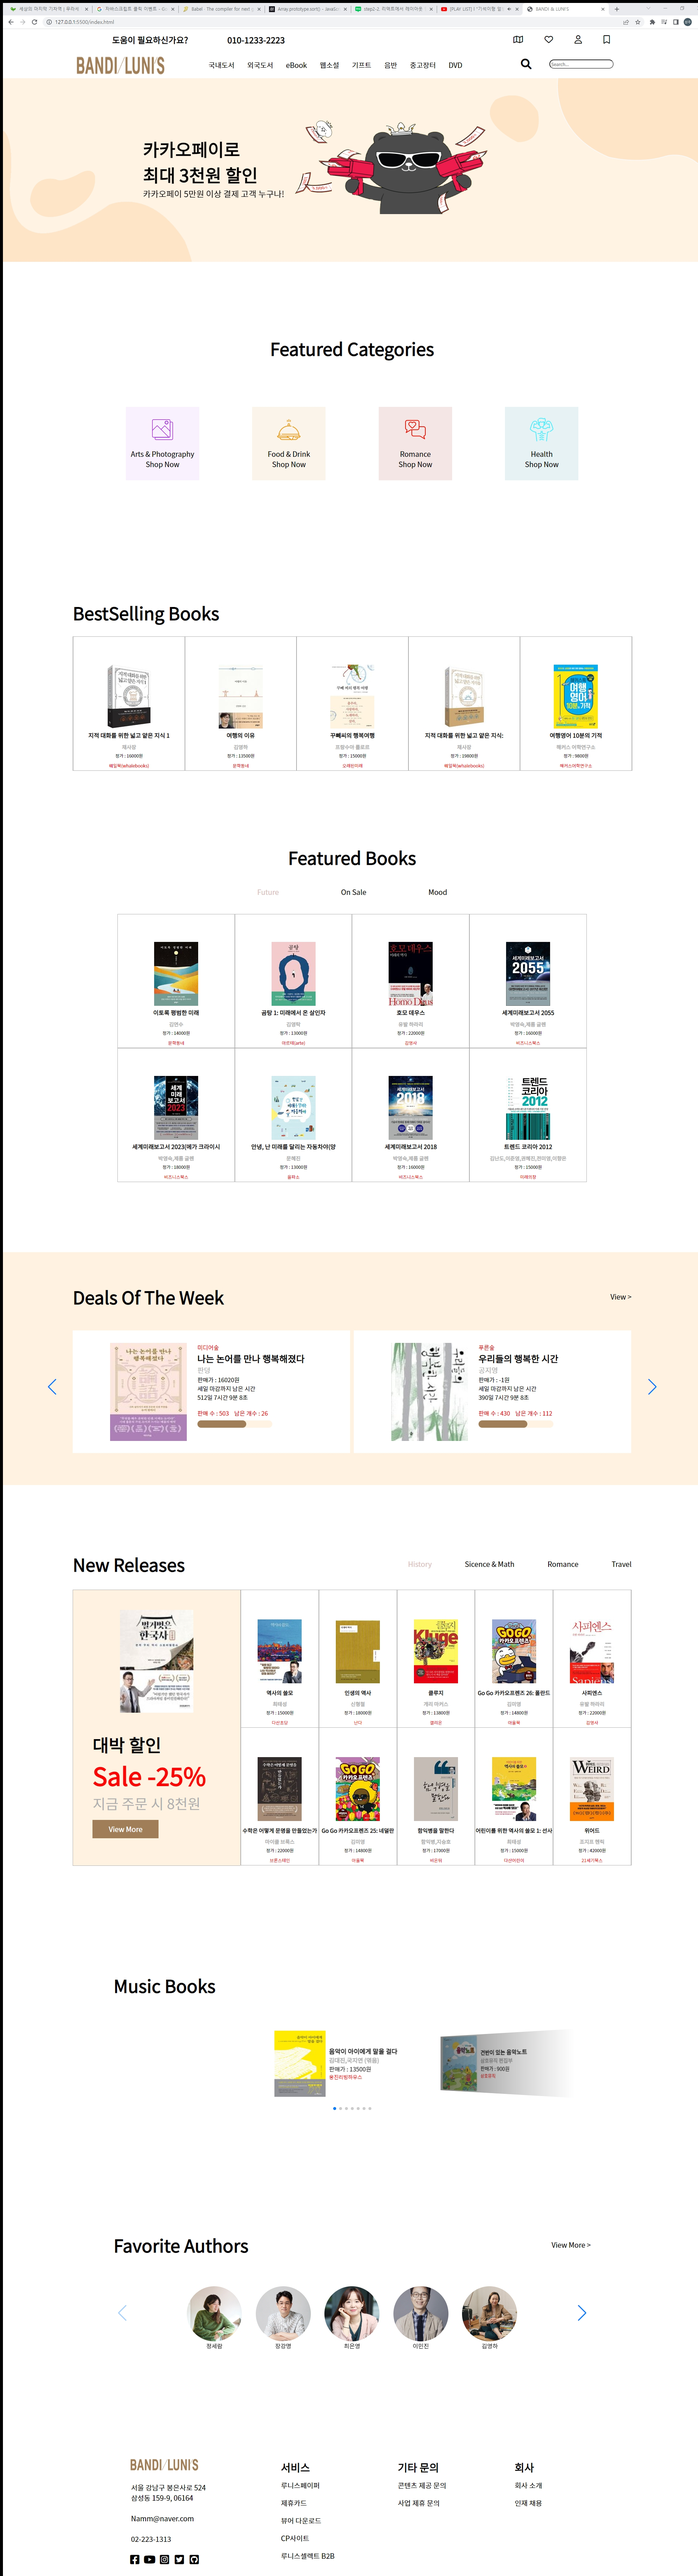
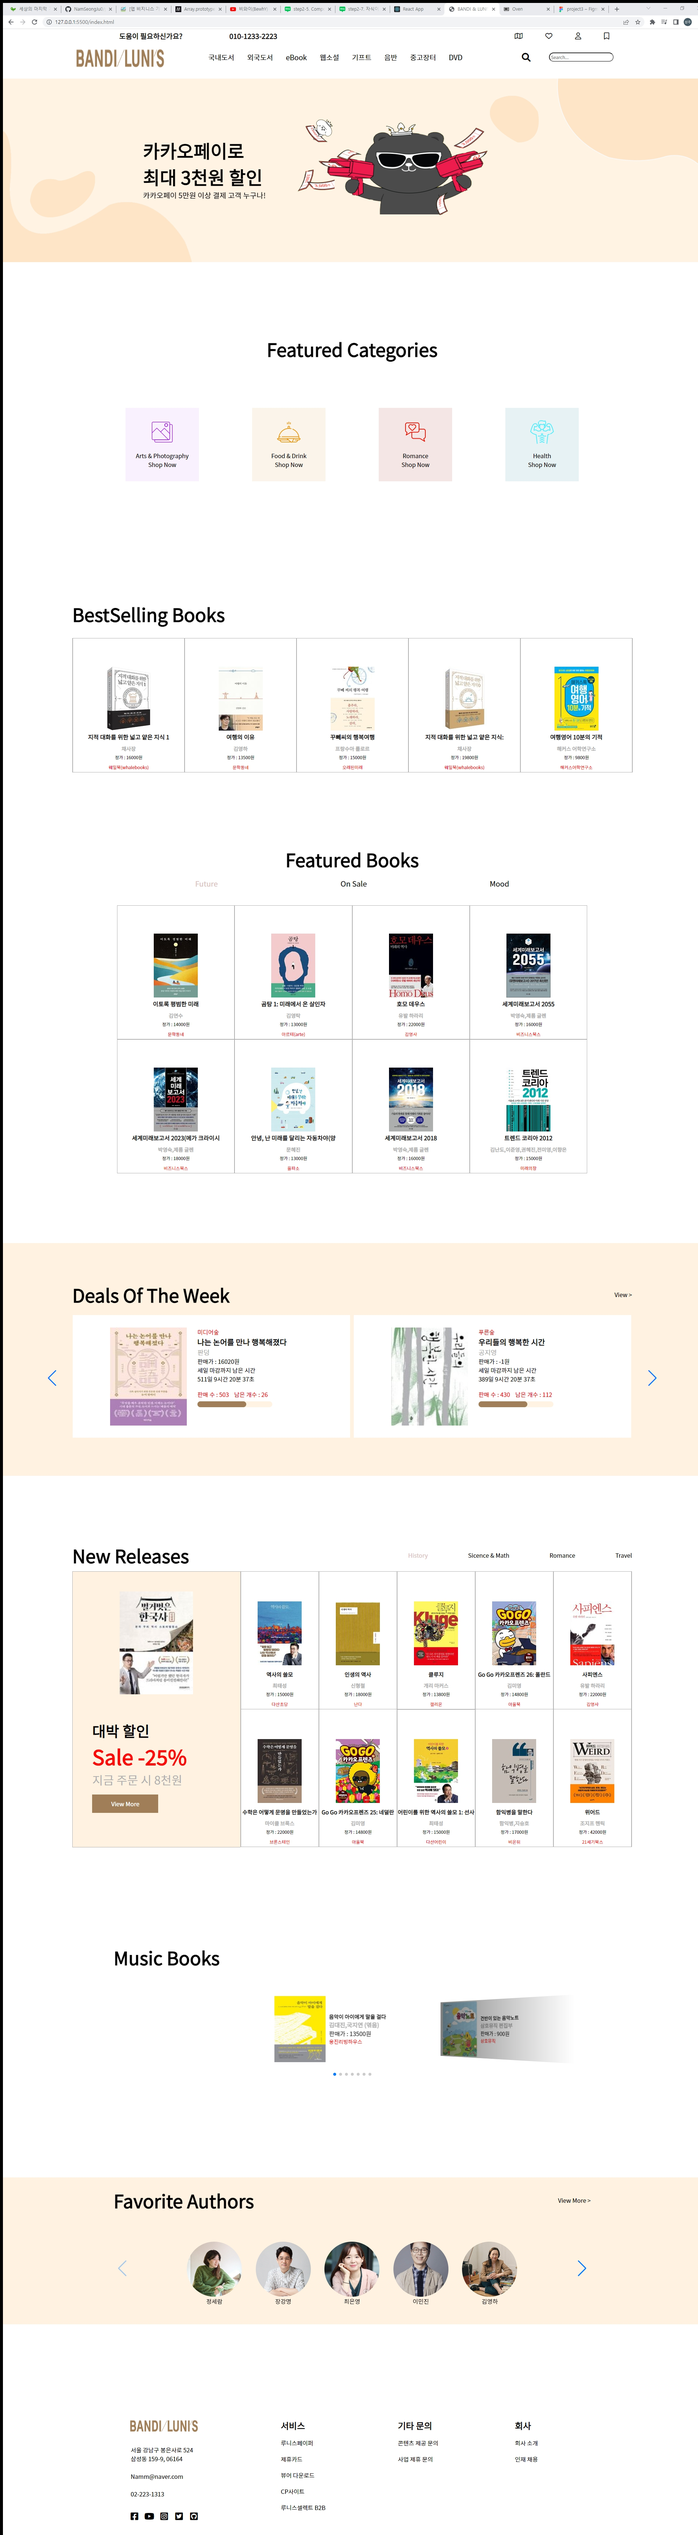
0224
하...

diff --git a/scssfile/index.scss b/scssfile/index.scss
@@ -1144,104 +1144,112 @@
 
 
 // Favorite Authors
-#Favorite {
-    width: 1300px;
-    height: 400px;
-    display: flex;
-    justify-content: center;
-    align-items: center;
-    flex-wrap: wrap;
-    margin: 200px auto;
-    position: relative;
-    opacity: 0;
+.back{
+    width: 1903px;
+    height: auto;
+    background-color: #fff2e1;
 
-    .favorite {
+    #Favorite {
         width: 1300px;
-        height: 50px;
-        display: flex;
-        justify-content: space-between;
-        align-items: center;
-
-        h1 {
-            font-size: 50px ;
-        }
-
-        span {
-            font-size: 1rem;
-
-            &:hover {
-                color: #dbc3c2;
-                transition: $hover_transition;
-                cursor: pointer;
-            }
-        }
-    }
-
-    .swiper {
-        width: 100%;
-        height: 100%;
-    }
-
-    .swiper-slide {
-        text-align: center;
-        font-size: 18px;
-        background: #fff;
+        height: 400px;
         display: flex;
         justify-content: center;
         align-items: center;
-        width: 250px;
-        height: 180px;
-        border-radius: 50%;
-    }
-
-    .swiper-slide img {
-        display: block;
-        width: 100%;
-        height: 100%;
-        object-fit: cover;
-        width: 150px;
-        height: 150px;
-        border-radius: 50%;
-    }
-
-    .favor_box {
-        width: 908px;
-        height: 200px;
-        position: initial;
-
-        .favor_ul {
-            width: 1500px;
-            height: 100%;
+        flex-wrap: wrap;
+        margin: 200px auto;
+        position: relative;
+        opacity: 0;
+    
+        .favorite {
+            width: 1300px;
+            height: 50px;
             display: flex;
-            justify-content: space-around;
+            justify-content: space-between;
             align-items: center;
-
-            .favor_li {
-                width: 150px;
-                height: 180px;
-                display: flex;
-                justify-content: center;
-                align-items: center;
-                flex-direction: column;
-
-                img {
-                    width: 150px;
-                    height: 150px;
-                    border-radius: 50%;
-                }
-
-                p {
-                    font-size: 16px;
-                    text-align: center;
+    
+            h1 {
+                font-size: 50px ;
+            }
+    
+            span {
+                font-size: 1rem;
+    
+                &:hover {
+                    color: #dbc3c2;
+                    transition: $hover_transition;
+                    cursor: pointer;
                 }
             }
         }
-
-        .swiper-button-next,
-        .swiper-button-prev {
-            top: 62%;
+    
+        .swiper {
+            width: 100%;
+            height: 100%;
+        }
+    
+        .swiper-slide {
+            text-align: center;
+            font-size: 18px;
+            background: #fff;
+            display: flex;
+            justify-content: center;
+            align-items: center;
+            width: 250px;
+            height: 180px;
+            border-radius: 50%;
+        }
+    
+        .swiper-slide img {
+            display: block;
+            width: 100%;
+            height: 100%;
+            object-fit: cover;
+            width: 150px;
+            height: 150px;
+            border-radius: 50%;
+        }
+    
+        .favor_box {
+            width: 908px;
+            height: 200px;
+            position: initial;
+    
+            .favor_ul {
+                width: 1500px;
+                height: 100%;
+                display: flex;
+                justify-content: space-around;
+                align-items: center;
+    
+                .favor_li {
+                    width: 150px;
+                    height: 180px;
+                    background-color: #fff2e1;
+                    display: flex;
+                    justify-content: center;
+                    align-items: center;
+                    flex-direction: column;
+    
+                    img {
+                        width: 150px;
+                        height: 150px;
+                        border-radius: 50%;
+                    }
+    
+                    p {
+                        font-size: 16px;
+                        text-align: center;
+                    }
+                }
+            }
+    
+            .swiper-button-next,
+            .swiper-button-prev {
+                top: 62%;
+            }
         }
     }
 }
+
 
 

diff --git a/cssfile/index.css b/cssfile/index.css
@@ -1352,7 +1352,12 @@ footer .contents .footer1 ul li a:hover {
   color: #ff0000;
 }
 
-#Favorite {
+.back {
+  width: 1903px;
+  height: auto;
+  background-color: #fff2e1;
+}
+.back #Favorite {
   width: 1300px;
   height: 400px;
   display: flex;
@@ -1363,29 +1368,29 @@ footer .contents .footer1 ul li a:hover {
   position: relative;
   opacity: 0;
 }
-#Favorite .favorite {
+.back #Favorite .favorite {
   width: 1300px;
   height: 50px;
   display: flex;
   justify-content: space-between;
   align-items: center;
 }
-#Favorite .favorite h1 {
+.back #Favorite .favorite h1 {
   font-size: 50px;
 }
-#Favorite .favorite span {
+.back #Favorite .favorite span {
   font-size: 1rem;
 }
-#Favorite .favorite span:hover {
+.back #Favorite .favorite span:hover {
   color: #dbc3c2;
   transition: all 0.5s ease;
   cursor: pointer;
 }
-#Favorite .swiper {
+.back #Favorite .swiper {
   width: 100%;
   height: 100%;
 }
-#Favorite .swiper-slide {
+.back #Favorite .swiper-slide {
   text-align: center;
   font-size: 18px;
   background: #fff;
@@ -1396,7 +1401,7 @@ footer .contents .footer1 ul li a:hover {
   height: 180px;
   border-radius: 50%;
 }
-#Favorite .swiper-slide img {
+.back #Favorite .swiper-slide img {
   display: block;
   width: 100%;
   height: 100%;
@@ -1406,36 +1411,37 @@ footer .contents .footer1 ul li a:hover {
   height: 150px;
   border-radius: 50%;
 }
-#Favorite .favor_box {
+.back #Favorite .favor_box {
   width: 908px;
   height: 200px;
   position: initial;
 }
-#Favorite .favor_box .favor_ul {
+.back #Favorite .favor_box .favor_ul {
   width: 1500px;
   height: 100%;
   display: flex;
   justify-content: space-around;
   align-items: center;
 }
-#Favorite .favor_box .favor_ul .favor_li {
+.back #Favorite .favor_box .favor_ul .favor_li {
   width: 150px;
   height: 180px;
+  background-color: #fff2e1;
   display: flex;
   justify-content: center;
   align-items: center;
   flex-direction: column;
 }
-#Favorite .favor_box .favor_ul .favor_li img {
+.back #Favorite .favor_box .favor_ul .favor_li img {
   width: 150px;
   height: 150px;
   border-radius: 50%;
 }
-#Favorite .favor_box .favor_ul .favor_li p {
+.back #Favorite .favor_box .favor_ul .favor_li p {
   font-size: 16px;
   text-align: center;
 }
-#Favorite .favor_box .swiper-button-next,
-#Favorite .favor_box .swiper-button-prev {
+.back #Favorite .favor_box .swiper-button-next,
+.back #Favorite .favor_box .swiper-button-prev {
   top: 62%;
 }

diff --git a/index.html b/index.html
@@ -2032,6 +2032,7 @@
 
 
         <!-- Favorite Authors -->
+        <div class="back">
         <div id="Favorite">
 
             <div class="favorite">
@@ -2091,6 +2092,7 @@
             </div>
             
         </div>
+    </div>
         
 
 
